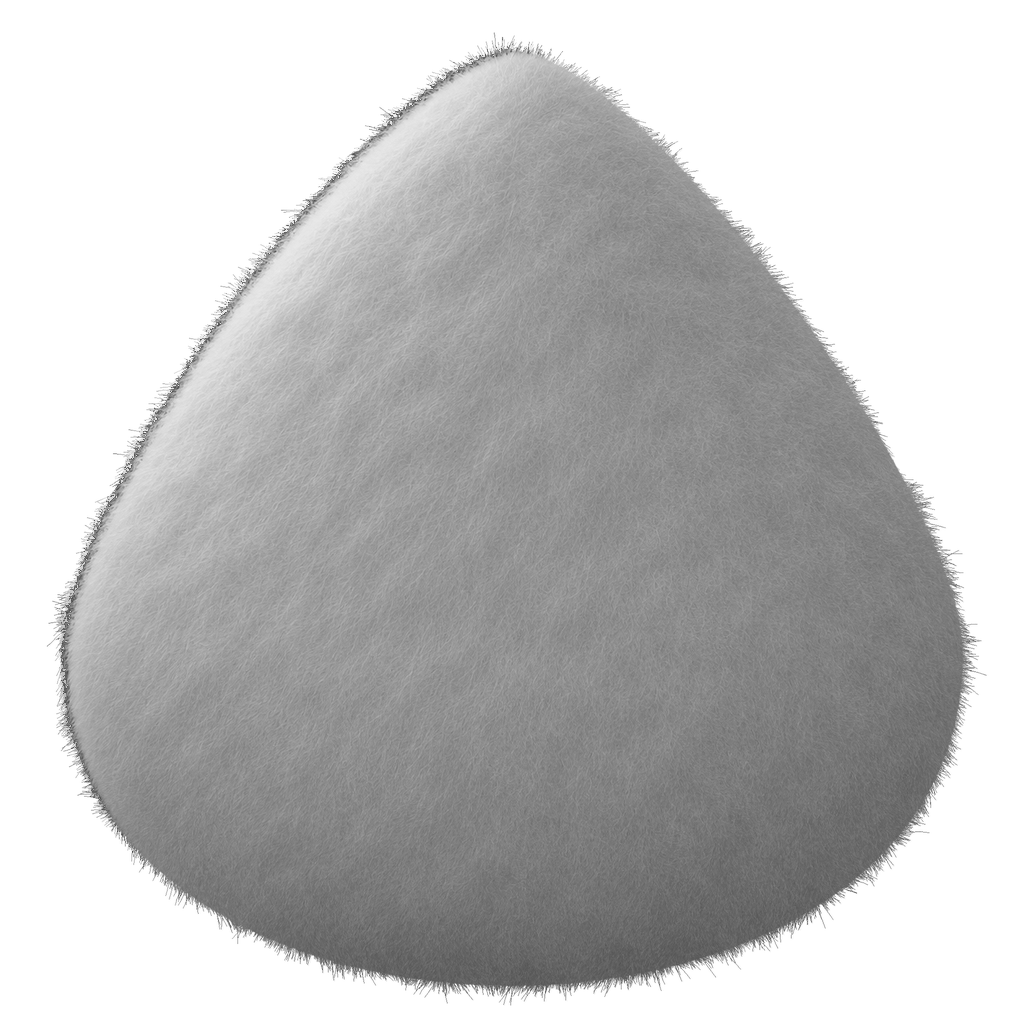
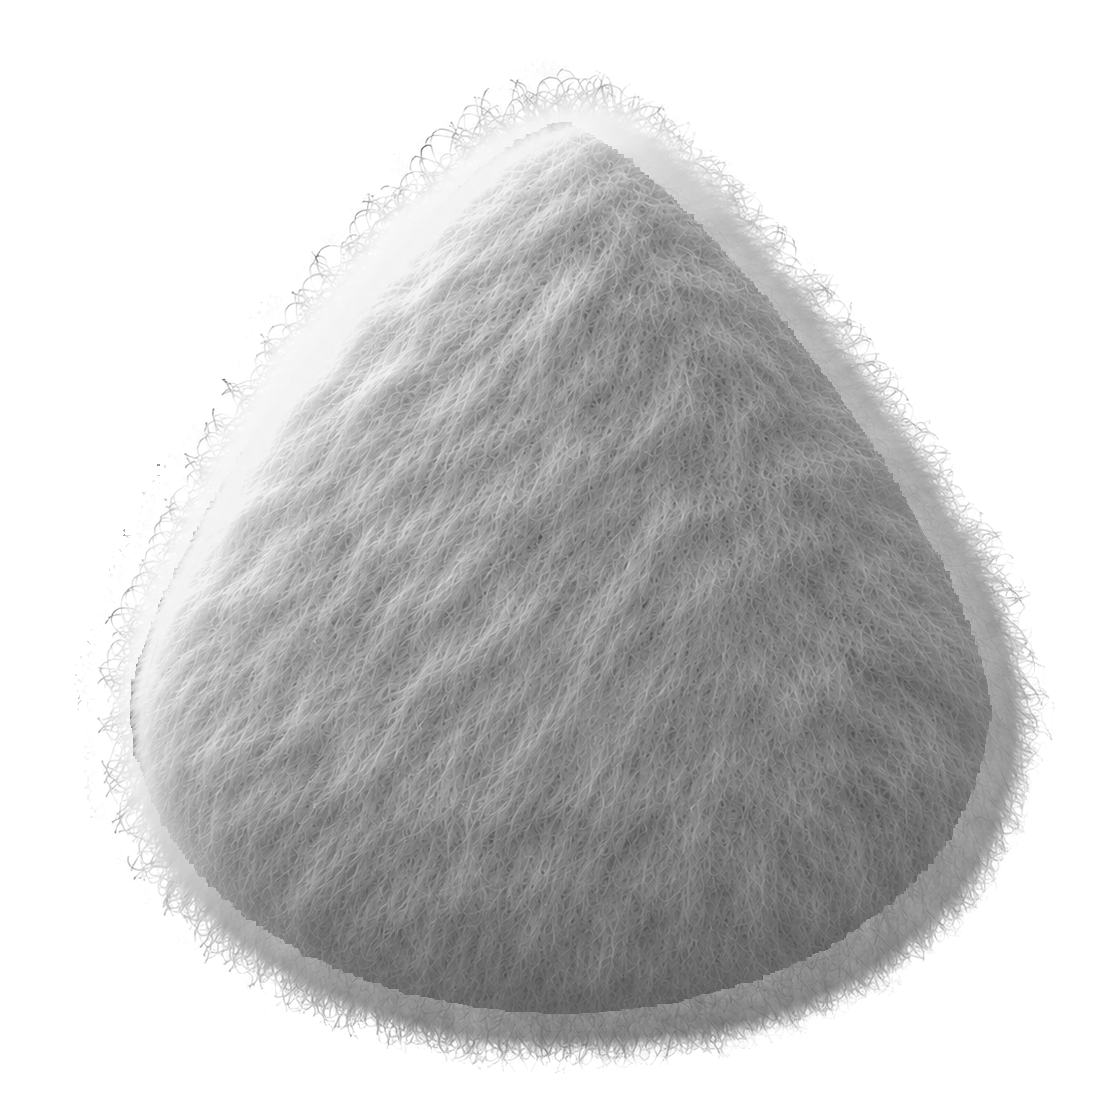
feat(ui): apply approved plush materials to all characters
将确认的云团毛绒样稿统一应用到全部 16 种身体素材。
保留角色主体轮廓、眼睛素材、面部位置、注视和交互动画。
在共享 Character 中补偿身体画布留白，保留半透明散毛边缘。
更新素材准备脚本，统一对齐、透明边缘提取和中性灰度校准。
更新头像坐标单元测试与真实 Web 素材尺寸断言。

验证：5 项头像单元测试、真实 Web 与 Electron 头像测试通过。
验证：类型检查、lint、Windows 图标与打包后台启动测试通过。
Lint 保留仓库已有的 12 条警告。
临时角色图册、通知图册与材质对照页已更新。

diff --git a/packages/ui/test/characters.test.ts b/packages/ui/test/characters.test.ts
@@ -2,6 +2,7 @@ import { createElement } from "react";
 import { renderToStaticMarkup } from "react-dom/server";
 import { expect, test } from "vitest";
 import {
+  type CharacterShape,
   characterColors,
   characterIdentity,
   characterNames,
@@ -46,6 +47,23 @@ test("saved identities retain their shape and color", () => {
     shape: "star",
     color: "#f5c85a",
   });
+});
+
+test("plush padding retains the body coordinate frame and independent eyes", () => {
+  for (const shape of [
+    "cat",
+    ...Object.keys(characterNames),
+  ] as CharacterShape[]) {
+    const html = renderToStaticMarkup(
+      createElement(Character, { shape, color: "#91df74", state: "idle" }),
+    );
+    expect(html).toContain(
+      'x="-4.6875" y="-4.6875" width="109.375" height="109.375"',
+    );
+    expect(html).toContain('class="character-face"');
+    expect(html.match(/class="character-eyelid"/g)).toHaveLength(2);
+    expect(html).toContain('class="character-pupils"');
+  }
 });
 
 test("all fifteen shapes and eighteen colors can be selected independently", () => {

diff --git a/packages/ui/src/web/character.tsx b/packages/ui/src/web/character.tsx
@@ -37,6 +37,7 @@ const textures = {
   triangle,
   capsule,
 };
+const bodyPadding = (48 / 1024) * 100;
 const channels = (color: string) =>
   [1, 3, 5].map((index) => Number.parseInt(color.slice(index, index + 2), 16));
 
@@ -164,8 +165,10 @@ export function Character({
         <g className="character-body">
           <image
             href={texture}
-            width="100"
-            height="100"
+            x={-bodyPadding}
+            y={-bodyPadding}
+            width={100 + bodyPadding * 2}
+            height={100 + bodyPadding * 2}
             filter={`url(#${id}-tint)`}
           />
           <g

diff --git a/apps/web/test/avatars.spec.ts b/apps/web/test/avatars.spec.ts
@@ -253,7 +253,7 @@ test("plush identities load, animate and survive profile changes", async ({
       });
     expect(bodies).toHaveLength(15);
     for (const body of bodies) {
-      expect(body.size).toEqual([1024, 1024]);
+      expect(body.size).toEqual([1120, 1120]);
       expect(body.neutral).toBe(true);
       expect(Math.abs(body.median / 255 - 0.55)).toBeLessThan(2 / 255);
     }

diff --git a/packages/ui/scripts/prepare-characters.py b/packages/ui/scripts/prepare-characters.py
@@ -9,36 +9,75 @@ def linear(value):
     return np.where(value <= 0.04045, value / 12.92, ((value + 0.055) / 1.055) ** 2.4)
 
 
-directory = Path(__file__).resolve().parent.parent / "assets" / "characters"
-source = Path(sys.argv[1])
-materials = []
-for path in sorted(directory.glob("*.webp")):
-    if path.name.startswith("eye-"):
-        continue
-    original = Image.open(path).convert("RGBA")
-    alpha = original.getchannel("A")
-    image = Image.open(source / f"{path.stem}.png").convert("L")
-    image = image.resize(original.size, Image.Resampling.LANCZOS)
-    # Extend fiber color into matte pixels before applying the retained alpha.
-    edge = np.asarray(alpha.filter(ImageFilter.MinFilter(17))) < 255
-    pixels = np.asarray(image).copy()
-    matte = edge & (pixels < 80)
-    pixels[matte] = np.asarray(image.filter(ImageFilter.MaxFilter(17)))[matte]
-    image = Image.fromarray(pixels)
-    gray = np.asarray(image, dtype=float) / 255
-    interior = np.asarray(alpha) > 250
-    median = float(np.median(gray[interior]))
-    if median <= 0:
-        raise ValueError(f"{path.name}: body material has no illumination")
-    value = np.clip(linear(gray) * float(linear(0.55)) / float(linear(median)), 0, 1)
+def prepare(render, reference):
+    if reference.width != reference.height:
+        raise ValueError("Expected a square body reference")
+    alpha = reference.convert("RGBA").getchannel("A")
+    alpha = alpha.resize((1024, 1024), Image.Resampling.LANCZOS)
+    image = render.convert("L")
+    bounds = alpha.point(lambda value: 255 if value > 128 else 0).getbbox()
+    source = image.point(lambda value: 255 if value > 96 else 0).getbbox()
+    if not bounds or not source:
+        raise ValueError("Expected a visible body and reference")
+    sx = (bounds[2] - bounds[0]) / (source[2] - source[0])
+    sy = (bounds[3] - bounds[1]) / (source[3] - source[1])
+    material = Image.new("L", (1120, 1120), 24)
+    resized = image.resize(
+        (round(image.width * sx), round(image.height * sy)),
+        Image.Resampling.LANCZOS,
+    )
+    material.paste(
+        resized,
+        (round(bounds[0] - source[0] * sx) + 48,
+         round(bounds[1] - source[1] * sy) + 48),
+    )
+    retained = Image.new("L", material.size)
+    retained.paste(alpha, (48, 48))
+    fringe = np.asarray(retained.filter(ImageFilter.MaxFilter(41)), dtype=float) / 255
+    interior = np.asarray(
+        retained.point(lambda value: 255 if value > 128 else 0)
+        .filter(ImageFilter.MinFilter(41))
+    ) > 250
+    if np.count_nonzero(interior) == 0:
+        raise ValueError("Body reference has no opaque core")
+    gray = np.asarray(material, dtype=float)
+    light = np.asarray(
+        material.filter(ImageFilter.MaxFilter(25)).filter(ImageFilter.GaussianBlur(5)),
+        dtype=float,
+    )
+    # Recover fine hair coverage against the render's charcoal matte.
+    opacity = np.clip((gray - 24) / np.maximum(light - 24, 1), 0, 1) * fringe
+    opacity[interior] = 1
+    opacity[opacity < 0.015] = 0
+    foreground = np.where(
+        opacity > 0,
+        (gray - 24 * (1 - opacity)) / np.maximum(opacity, 0.001),
+        140,
+    )
+    median = float(np.median(foreground[interior])) / 255
+    if not np.isfinite(median) or median <= 0:
+        raise ValueError("Body material has no illumination")
+    value = np.clip(
+        linear(np.clip(foreground / 255, 0, 1)) * linear(0.55) / linear(median),
+        0, 1,
+    )
     gray = np.where(value <= 0.0031308, value * 12.92, 1.055 * value ** (1 / 2.4) - 0.055)
     luma = Image.fromarray(np.rint(gray * 255).astype("uint8"))
-    material = Image.merge("RGBA", (luma, luma, luma, alpha))
-    assert material.size == original.size
-    assert np.array_equal(np.asarray(material.getchannel("A")), np.asarray(alpha))
+    alpha = Image.fromarray(np.rint(opacity * 255).astype("uint8"))
+    assert np.all(opacity[interior] == 1)
+    assert np.all(opacity[np.asarray(retained.filter(ImageFilter.MaxFilter(43))) == 0] == 0)
     assert abs(float(np.median(np.asarray(luma)[interior])) / 255 - 0.55) < 1 / 255
-    materials.append((path, material))
+    return Image.merge("RGBA", (luma, luma, luma, alpha))
 
-for path, material in materials:
-    material.save(path, lossless=True, method=6)
-    print(f"Prepared {path.name}", flush=True)
+
+if __name__ == "__main__":
+    renders, references, output = map(Path, sys.argv[1:])
+    materials = []
+    for path in sorted(references.glob("*.webp")):
+        if not path.name.startswith("eye-"):
+            material = prepare(Image.open(renders / f"{path.stem}.png"), Image.open(path))
+            materials.append((output / path.name, material))
+            print(f"Prepared {path.name}", flush=True)
+    output.mkdir(parents=True, exist_ok=True)
+    for path, material in materials:
+        material.save(path, lossless=True, method=6)

diff --git a/packages/ui/assets/characters/README.md b/packages/ui/assets/characters/README.md
@@ -1,18 +1,21 @@
 # Character body materials
 
-Bodies use fine short plush fibers and soft studio lighting. Each lossless WebP
-stores neutral gray at a median sRGB level of 0.55. The shared Character component
+Bodies use directional plush fibers, soft root shadows and translucent flyaways.
+Each lossless WebP stores neutral gray at a median sRGB level of 0.55.
+The shared Character component
 maps this material to the saved Bot color in linear light. Eyes and motion remain
 separate layers.
 
-To prepare approved body renders, align each body with its existing asset and
-place one PNG per body in a directory. Use the matching WebP basename. Run with
-Python, Pillow and NumPy:
+Keep the unpadded square body references in a separate directory. Place one approved
+grayscale PNG render per body in another directory. Use the matching WebP basename.
+Renders use a uniform RGB (24, 24, 24) background. Run with Python, Pillow and NumPy:
 
 ```sh
-python packages/ui/scripts/prepare-characters.py <render-directory>
+python packages/ui/scripts/prepare-characters.py <render-directory> <reference-directory> packages/ui/assets/characters
 ```
 
-The preparation script retains each existing body's dimensions and alpha. Review
-all bodies at 40, 64 and 160 pixels in both themes before replacing assets. Keep
-eye assets separate from body preparation.
+The preparation script aligns each render to its reference. It retains the body's
+core and extracts fine hair coverage near its contour. Each 1120px body includes
+48px of padding on all sides. Character compensates for that padding, so the body
+and eyes retain their positions. Review all bodies at 40, 64 and 160 pixels in both
+themes. Keep eye assets separate from body preparation.
